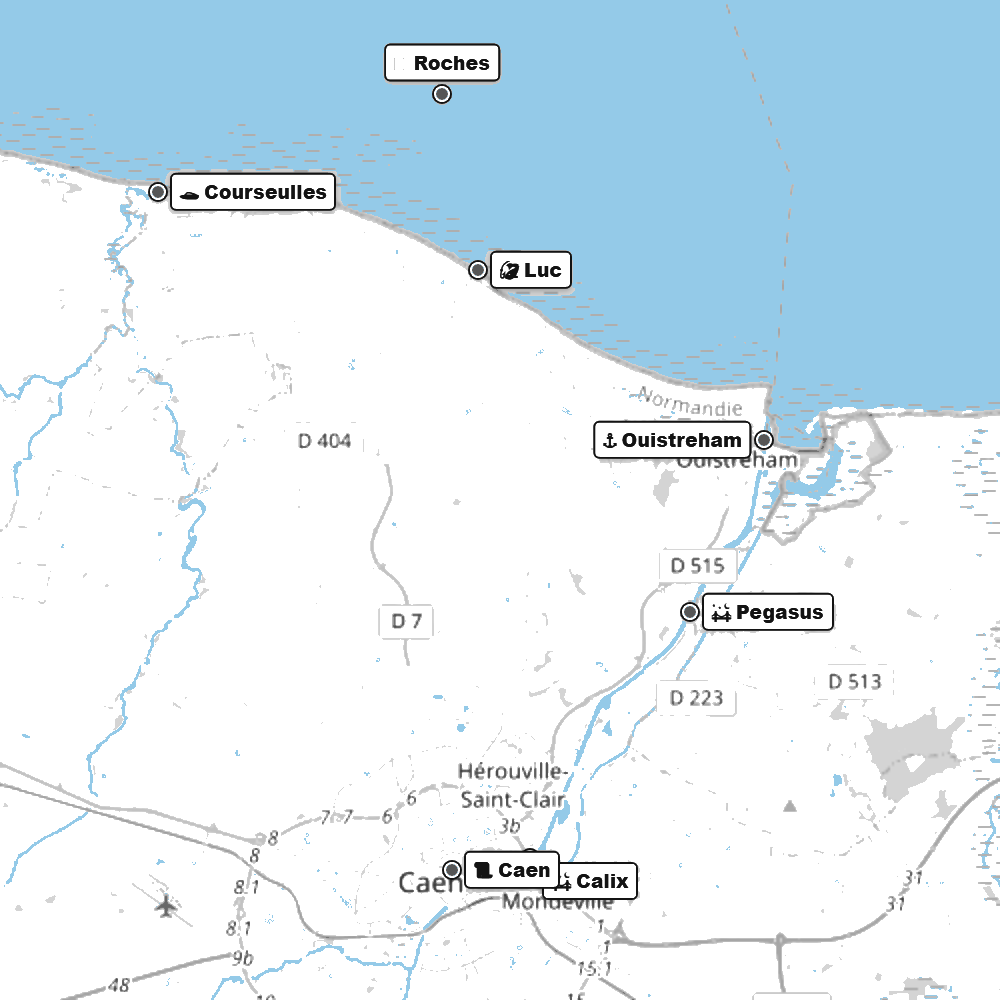
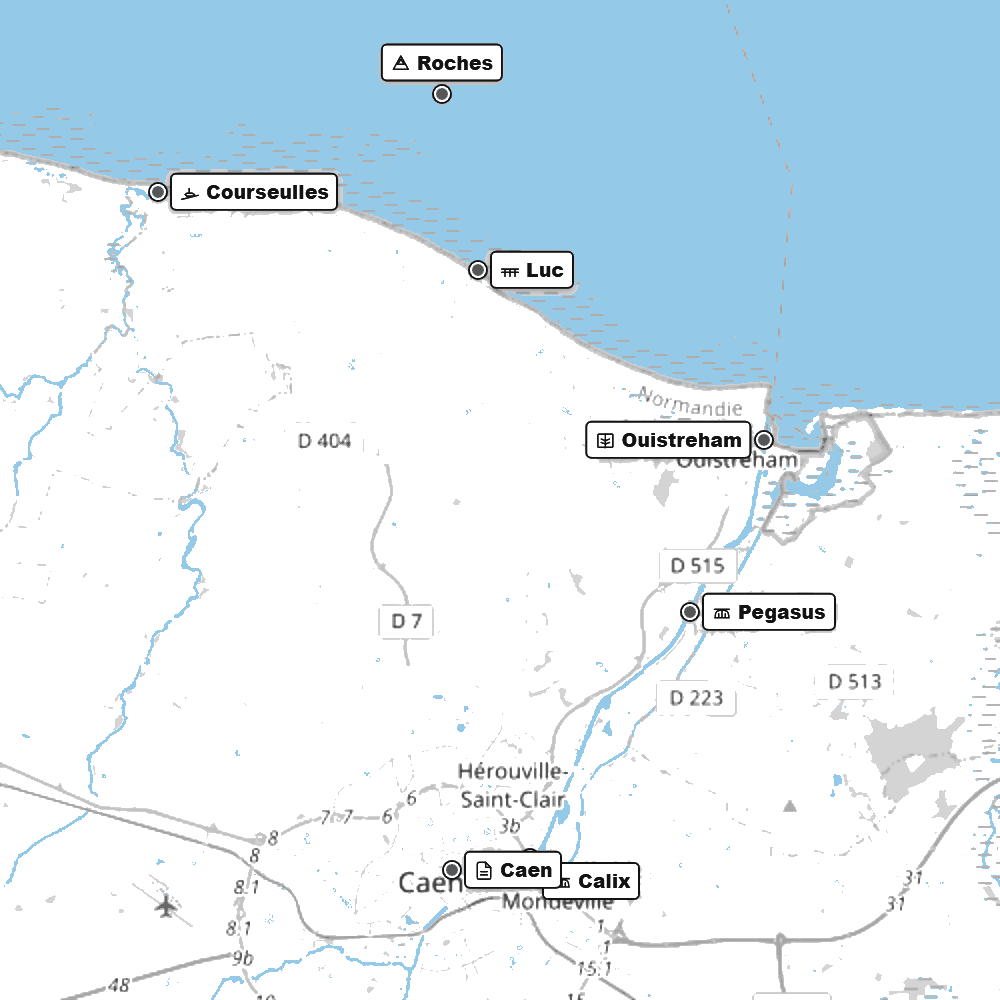
style(maps): unifier les icones de la legende et de la carte en vectoriel noir et blanc SHOM

diff --git a/site/js/icons.js b/site/js/icons.js
@@ -18,7 +18,18 @@ export const SVG_ICONS = {
   hook: `<svg class="ui-icon" width="1em" height="1em" viewBox="0 0 24 24" fill="none" stroke="currentColor" stroke-width="1.8" stroke-linecap="round" stroke-linejoin="round" focusable="false" aria-hidden="true"><circle cx="16" cy="4" r="2"/><path d="M16 6v7a5 5 0 0 1-10 0v-2l2 2"/></svg>`,
   moon: `<svg class="ui-icon" width="1em" height="1em" viewBox="0 0 24 24" fill="none" stroke="currentColor" stroke-width="1.8" stroke-linecap="round" stroke-linejoin="round" focusable="false" aria-hidden="true"><path d="M21 12.79A9 9 0 1 1 11.21 3 7 7 0 0 0 21 12.79z"/></svg>`,
   compass: `<svg class="ui-icon" width="1em" height="1em" viewBox="0 0 24 24" fill="none" stroke="currentColor" stroke-width="1.8" stroke-linecap="round" stroke-linejoin="round" focusable="false" aria-hidden="true"><circle cx="12" cy="12" r="9"/><polygon points="12 8 10 14 16 12 12 8"/></svg>`,
-  pen: `<svg class="ui-icon" width="1em" height="1em" viewBox="0 0 24 24" fill="none" stroke="currentColor" stroke-width="1.8" stroke-linecap="round" stroke-linejoin="round" focusable="false" aria-hidden="true"><path d="M17 3a2.828 2.828 0 1 1 4 4L7.5 20.5 2 22l1.5-5.5L17 3z"/><path d="M15 5l4 4"/></svg>`
+  pen: `<svg class="ui-icon" width="1em" height="1em" viewBox="0 0 24 24" fill="none" stroke="currentColor" stroke-width="1.8" stroke-linecap="round" stroke-linejoin="round" focusable="false" aria-hidden="true"><path d="M17 3a2.828 2.828 0 1 1 4 4L7.5 20.5 2 22l1.5-5.5L17 3z"/><path d="M15 5l4 4"/></svg>`,
+  // Icônes cartographiques SHOM / OpenStreetMap (100% Noir & Blanc vectoriel)
+  permit: `<svg class="ui-icon" width="1em" height="1em" viewBox="0 0 24 24" fill="none" stroke="currentColor" stroke-width="1.8" stroke-linecap="round" stroke-linejoin="round" focusable="false" aria-hidden="true"><path d="M14 2H6a2 2 0 0 0-2 2v16a2 2 0 0 0 2 2h12a2 2 0 0 0 2-2V8z"/><polyline points="14 2 14 8 20 8"/><line x1="16" y1="13" x2="8" y2="13"/><line x1="16" y1="17" x2="8" y2="17"/></svg>`,
+  dpm: `<svg class="ui-icon" width="1em" height="1em" viewBox="0 0 24 24" fill="none" stroke="currentColor" stroke-width="1.8" stroke-linecap="round" stroke-linejoin="round" focusable="false" aria-hidden="true"><path d="M2 12c2.5-3 5-3 7.5 0s5 3 7.5 0"/><path d="M2 17c2.5-3 5-3 7.5 0s5 3 7.5 0"/></svg>`,
+  bridge: `<svg class="ui-icon" width="1em" height="1em" viewBox="0 0 24 24" fill="none" stroke="currentColor" stroke-width="1.8" stroke-linecap="round" stroke-linejoin="round" focusable="false" aria-hidden="true"><path d="M3 18h18M4 18v-3c0-3.5 3-6 8-6s8 2.5 8 6v3M8 18v-5M12 18V9M16 18v-5M3 8h18"/></svg>`,
+  quay: `<svg class="ui-icon" width="1em" height="1em" viewBox="0 0 24 24" fill="none" stroke="currentColor" stroke-width="1.8" stroke-linecap="round" stroke-linejoin="round" focusable="false" aria-hidden="true"><rect x="3" y="4" width="18" height="16" rx="1"/><line x1="9" y1="4" x2="9" y2="20"/><line x1="15" y1="4" x2="15" y2="20"/><line x1="3" y1="10" x2="21" y2="10"/><line x1="3" y1="15" x2="21" y2="15"/></svg>`,
+  slipway: `<svg class="ui-icon" width="1em" height="1em" viewBox="0 0 24 24" fill="none" stroke="currentColor" stroke-width="1.8" stroke-linecap="round" stroke-linejoin="round" focusable="false" aria-hidden="true"><path d="M2 20l20-5"/><path d="M6 14l2.5-1.5h6l3 1.5-1.5 2h-8z"/><line x1="11" y1="7" x2="11" y2="12.5"/></svg>`,
+  locks: `<svg class="ui-icon" width="1em" height="1em" viewBox="0 0 24 24" fill="none" stroke="currentColor" stroke-width="1.8" stroke-linecap="round" stroke-linejoin="round" focusable="false" aria-hidden="true"><rect x="3" y="4" width="18" height="16" rx="1"/><line x1="12" y1="4" x2="12" y2="20"/><path d="M7 10l5 2 5-2M7 14l5 2 5-2"/></svg>`,
+  reef: `<svg class="ui-icon" width="1em" height="1em" viewBox="0 0 24 24" fill="none" stroke="currentColor" stroke-width="1.8" stroke-linecap="round" stroke-linejoin="round" focusable="false" aria-hidden="true"><polygon points="12 3 3 19 21 19 12 3"/><polygon points="8 13 12 7 16 13 8 13"/></svg>`,
+  sandbank: `<svg class="ui-icon" width="1em" height="1em" viewBox="0 0 24 24" fill="none" stroke="currentColor" stroke-width="1.8" stroke-linecap="round" stroke-linejoin="round" focusable="false" aria-hidden="true"><path d="M2 8c3-2 6 2 10 0s7-2 10 0"/><path d="M2 13c3-2 6 2 10 0s7-2 10 0"/><path d="M2 18c3-2 6 2 10 0s7-2 10 0"/></svg>`,
+  wreck: `<svg class="ui-icon" width="1em" height="1em" viewBox="0 0 24 24" fill="none" stroke="currentColor" stroke-width="1.8" stroke-linecap="round" stroke-linejoin="round" focusable="false" aria-hidden="true"><circle cx="12" cy="12" r="9"/><line x1="7" y1="12" x2="17" y2="12"/><line x1="12" y1="7" x2="12" y2="17"/><line x1="8.5" y1="8.5" x2="15.5" y2="15.5"/><line x1="8.5" y1="15.5" x2="15.5" y2="8.5"/></svg>`,
+  pier: `<svg class="ui-icon" width="1em" height="1em" viewBox="0 0 24 24" fill="none" stroke="currentColor" stroke-width="1.8" stroke-linecap="round" stroke-linejoin="round" focusable="false" aria-hidden="true"><path d="M2 10h20M6 10v9M12 10v9M18 10v9M2 14h20"/></svg>`
 };
 
 export function uiIcon(name, extraClass = '') {

diff --git a/site/js/geo-maps.js b/site/js/geo-maps.js
@@ -28,24 +28,24 @@ export function renderCanalDedicatedMap(fish) {
       </div>
       <div class="map-legend-bar" aria-label="Légende cartographique du Canal">
         <span class="legend-title">Légende :</span>
-        <span class="legend-item"><span class="legend-sym">📜</span> AAPPMA</span>
-        <span class="legend-item"><span class="legend-sym">🌊</span> DPM libre</span>
-        <span class="legend-item"><span class="legend-sym">🌉</span> Pont</span>
-        <span class="legend-item"><span class="legend-sym">🏢</span> Palplanches</span>
-        <span class="legend-item"><span class="legend-sym">🚤</span> Cale slipway</span>
-        <span class="legend-item"><span class="legend-sym">⚓</span> Écluses</span>
+        <span class="legend-item">${uiIcon('permit')} AAPPMA</span>
+        <span class="legend-item">${uiIcon('dpm')} DPM libre</span>
+        <span class="legend-item">${uiIcon('bridge')} Pont</span>
+        <span class="legend-item">${uiIcon('quay')} Palplanches</span>
+        <span class="legend-item">${uiIcon('slipway')} Cale slipway</span>
+        <span class="legend-item">${uiIcon('locks')} Écluses</span>
       </div>
       <div class="map-habitats-grid">
         <div class="map-habitat-chip">
-          <span class="map-habitat-tag">🪨 Enrochements</span>
+          <span class="map-habitat-tag">${uiIcon('reef')} Enrochements</span>
           <span class="map-habitat-val">${fish.canal.keySpots.enrochements}</span>
         </div>
         <div class="map-habitat-chip">
-          <span class="map-habitat-tag">🏢 Palplanches</span>
+          <span class="map-habitat-tag">${uiIcon('quay')} Palplanches</span>
           <span class="map-habitat-val">${fish.canal.keySpots.palplanches}</span>
         </div>
         <div class="map-habitat-chip">
-          <span class="map-habitat-tag">🌉 Piles / Ponts</span>
+          <span class="map-habitat-tag">${uiIcon('bridge')} Piles / Ponts</span>
           <span class="map-habitat-val">${fish.canal.keySpots.pilesDePont}</span>
         </div>
       </div>
@@ -78,23 +78,23 @@ export function renderCoteDeNacreDedicatedMap(fish) {
       </div>
       <div class="map-legend-bar" aria-label="Légende cartographique de la Côte de Nacre">
         <span class="legend-title">Légende :</span>
-        <span class="legend-item"><span class="legend-sym">🪨</span> Roches (6-15m)</span>
-        <span class="legend-item"><span class="legend-sym">〰</span> Bancs / Ridens</span>
-        <span class="legend-item"><span class="legend-sym">⚓</span> Épave 1944</span>
-        <span class="legend-item"><span class="legend-sym">🎣</span> Jetée pêche</span>
-        <span class="legend-item"><span class="legend-sym">🚤</span> Cale slipway</span>
+        <span class="legend-item">${uiIcon('reef')} Roches (6-15m)</span>
+        <span class="legend-item">${uiIcon('sandbank')} Bancs / Ridens</span>
+        <span class="legend-item">${uiIcon('wreck')} Épave 1944</span>
+        <span class="legend-item">${uiIcon('pier')} Jetée pêche</span>
+        <span class="legend-item">${uiIcon('slipway')} Cale slipway</span>
       </div>
       <div class="map-habitats-grid">
         <div class="map-habitat-chip">
-          <span class="map-habitat-tag">🪨 Roches Calvados</span>
+          <span class="map-habitat-tag">${uiIcon('reef')} Roches Calvados</span>
           <span class="map-habitat-val">${fish.bateau.habitats.rochesDuCalvados}</span>
         </div>
         <div class="map-habitat-chip">
-          <span class="map-habitat-tag">⚓ Épaves 1944</span>
+          <span class="map-habitat-tag">${uiIcon('wreck')} Épaves 1944</span>
           <span class="map-habitat-val">${fish.bateau.habitats.epavesDDay}</span>
         </div>
         <div class="map-habitat-chip">
-          <span class="map-habitat-tag">〰 Bancs / Ridens</span>
+          <span class="map-habitat-tag">${uiIcon('sandbank')} Bancs / Ridens</span>
           <span class="map-habitat-val">${fish.bateau.habitats.bancsDeSableEtRidens}</span>
         </div>
       </div>
@@ -124,10 +124,10 @@ export function renderRegionalMiniMap() {
         />
       </div>
       <div class="mini-map-legend-bar" aria-label="Légende vue d'ensemble">
-        <span>📜 AAPPMA</span>
-        <span>🌊 DPM</span>
-        <span>🪨 Roches</span>
-        <span>⚓ Épaves</span>
+        <span>${uiIcon('permit')} AAPPMA</span>
+        <span>${uiIcon('dpm')} DPM</span>
+        <span>${uiIcon('reef')} Roches</span>
+        <span>${uiIcon('wreck')} Épaves</span>
       </div>
     </div>
   `;

diff --git a/site/css/07-print.css b/site/css/07-print.css
@@ -301,6 +301,19 @@ body.print-mode .print-view-container {
   flex-shrink: 0;
 }
 
+.a4-sheet-preview .mini-map-legend-bar span {
+  display: inline-flex;
+  align-items: center;
+  gap: 0.3mm;
+}
+
+.a4-sheet-preview .mini-map-legend-bar .ui-icon {
+  width: 1.8mm;
+  height: 1.8mm;
+  color: var(--theme-text-title);
+  flex-shrink: 0;
+}
+
 .a4-sheet-preview .notes-col-lines {
   display: flex;
   flex-direction: column;
@@ -452,8 +465,15 @@ body.print-mode .print-view-container {
 .a4-sheet-preview .map-legend-bar .legend-item {
   display: inline-flex;
   align-items: center;
-  gap: 0.4mm;
+  gap: 0.5mm;
   white-space: nowrap;
+}
+
+.a4-sheet-preview .map-legend-bar .ui-icon {
+  width: 2.2mm;
+  height: 2.2mm;
+  color: var(--theme-text-title);
+  flex-shrink: 0;
 }
 
 .a4-sheet-preview .map-habitats-grid {
@@ -486,6 +506,13 @@ body.print-mode .print-view-container {
   display: flex;
   align-items: center;
   gap: 0.8mm;
+}
+
+.a4-sheet-preview .map-habitat-tag .ui-icon {
+  width: 2.2mm;
+  height: 2.2mm;
+  color: var(--theme-text-title);
+  flex-shrink: 0;
 }
 
 .a4-sheet-preview .map-habitat-val {

diff --git a/site/css/06-card-back.css b/site/css/06-card-back.css
@@ -737,12 +737,15 @@
 .map-legend-bar .legend-item {
   display: inline-flex;
   align-items: center;
-  gap: 0.2rem;
+  gap: 0.25rem;
   white-space: nowrap;
 }
 
-.map-legend-bar .legend-sym {
-  font-size: 0.62rem;
+.map-legend-bar .ui-icon {
+  width: 0.72rem;
+  height: 0.72rem;
+  color: var(--theme-text-title);
+  flex-shrink: 0;
 }
 
 /* Grille des habitats dupliqués sur la carte */
@@ -777,6 +780,13 @@
   display: flex;
   align-items: center;
   gap: 0.25rem;
+}
+
+.map-habitat-tag .ui-icon {
+  width: 0.72rem;
+  height: 0.72rem;
+  color: var(--theme-text-title);
+  flex-shrink: 0;
 }
 
 .map-card-canal .map-habitat-tag {

diff --git a/site/css/05-card-front.css b/site/css/05-card-front.css
@@ -654,3 +654,16 @@
   border: 1px solid var(--theme-surface-subtle-border);
   border-radius: 2px;
 }
+
+.mini-map-legend-bar span {
+  display: inline-flex;
+  align-items: center;
+  gap: 0.15rem;
+}
+
+.mini-map-legend-bar .ui-icon {
+  width: 0.62rem;
+  height: 0.62rem;
+  color: var(--theme-text-title);
+  flex-shrink: 0;
+}
